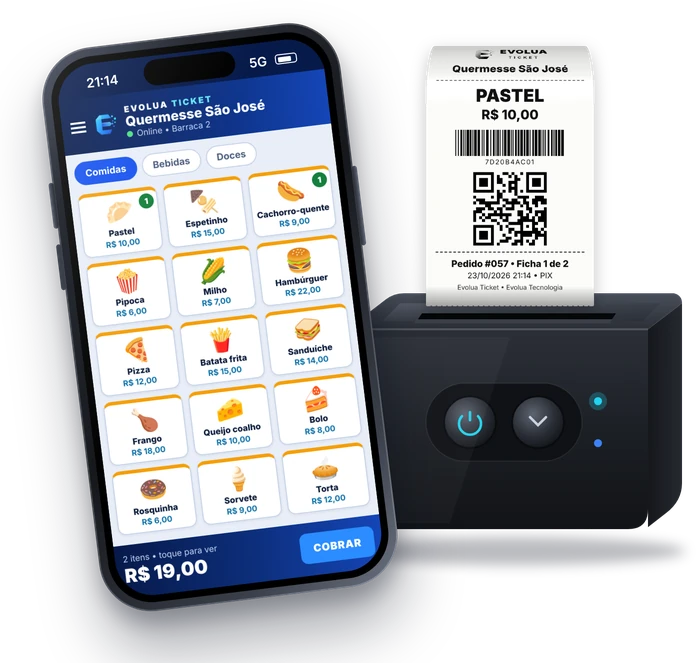
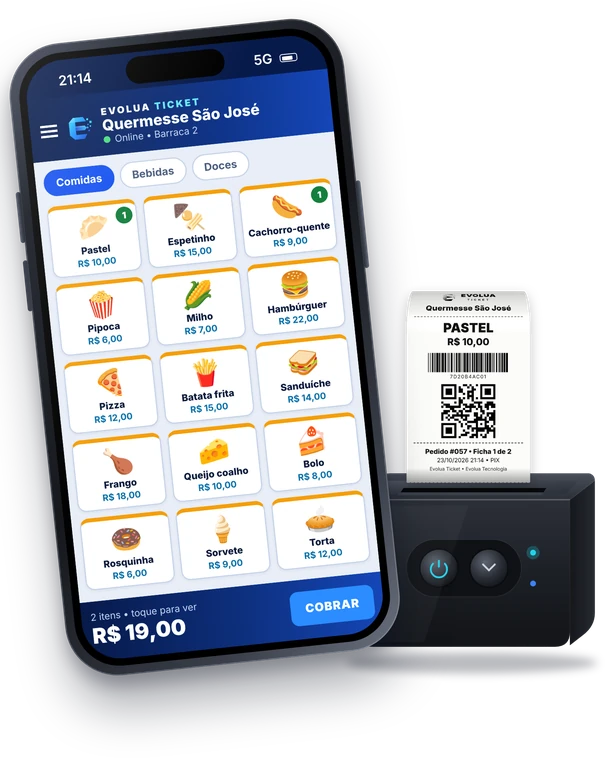
Aumenta o celular no quadro do celular com impressora
Claude-Session: https://claude.ai/code/session_01GbLZ4zt1ntkEGnsbhGEL5K

diff --git a/assets/css/style.css b/assets/css/style.css
@@ -419,4 +419,5 @@ a.contact-item:hover{border-color:var(--blue)}
 .compat-devices.real figure{flex:1;max-width:210px}
 .compat-devices.real img{width:100%;height:auto;filter:drop-shadow(0 18px 22px rgba(15,32,72,.22))}
 .compat-card.full{grid-column:1/-1}
-.compat-devices.real figure.phone-set{max-width:340px}
+.compat-devices.real figure.phone-set{max-width:none;width:100%}
+.compat-card:has(.phone-set) .compat-devices{align-items:center}

diff --git a/ALTERACOES.md b/ALTERACOES.md
@@ -11,3 +11,4 @@ Tudo aqui fica na branch `proximas-alteracoes` e só vai para o site quando for 
 - [x] Seção "Maquininhas compatíveis": título agora fala com o cliente final ("O Evolua Ticket roda na sua maquininha"). As máquinas desenhadas da PagBank deram lugar às máquinas reais (Moderninha Smart 2, Stone e Cielo LIO) com uma ficha do Evolua Ticket impressa (com código de barras e QR Code, igual à do app) saindo da impressora e cobrindo a marca de cima. Sem o carimbo "Em homologação" nessas imagens; o aviso fica só na etiqueta do quadro. Saiu o quadro desenhado de "POS Android" (virou uma frase no quadro de outras credenciadoras).
 - [x] Fichas refeitas: agora saem da boca da impressora de cada maquininha, subindo e com a ponta curvada para trás, e não deitadas por cima. Logos apagados com retoque (Cielo e LIO em cima, "stone" embaixo da tela); o da Moderninha fica atrás da ficha.
 - [x] Quadro "Celular Android": celular moderno inclinado na frente com o Evolua Ticket na tela e impressora térmica portátil atrás com a ficha (código de barras e QR Code) saindo, no arranjo do esboço enviado. São ilustrações nossas (não foto); dá para trocar por foto real depois.
+- [x] Celular do quadro "Celular Android" bem maior, ocupando o quadro, com a impressora ao lado.
